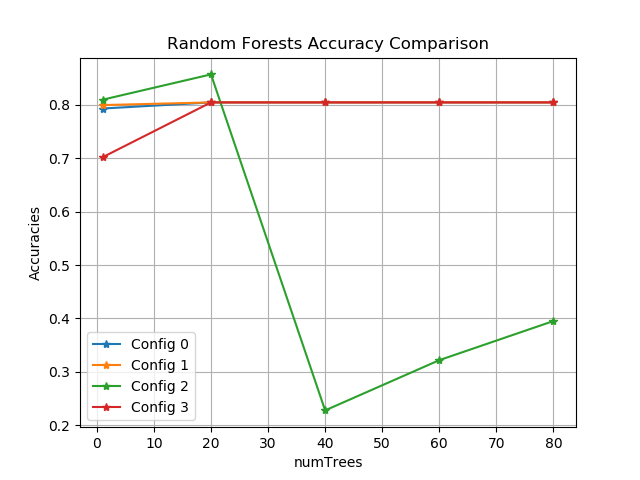
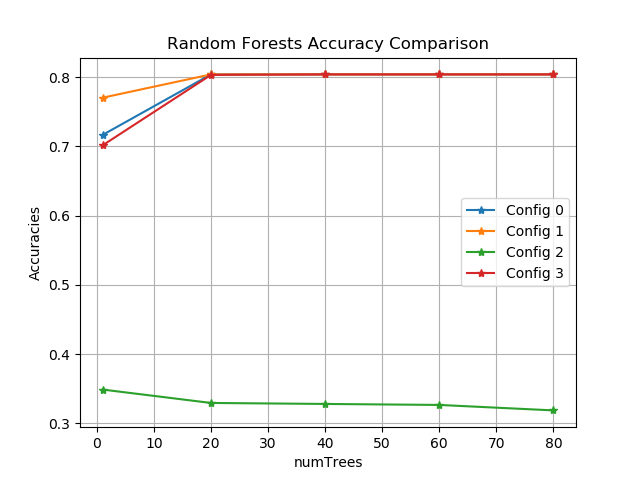
CHANGED: avoid multiple randon.seed() calls.

diff --git a/Assignment4/Code/model/RandomForestsModel.py b/Assignment4/Code/model/RandomForestsModel.py
@@ -28,23 +28,23 @@ class RandomForestModel(object):
         xs = []
         random.seed(self.seed)
         for _ in range(self.numTrees):
-            seed = random.randint(0, self.numTrees)
+            # seed = random.randint(0, self.numTrees)
             # feature restriction: different random set for each tree
             if self.feature_restriction > 0:
                 selected_indices = select_random_indices(len(x[0]),
                                                          self.feature_restriction,
-                                                         seed=seed)
+                                                         seed=None)
 
                 x = restrict_features(x, selected_indices)
 
             if self.use_bagging:
-                x = get_bagged_samples(x, seed=self.seed)
+                x = get_bagged_samples(x, seed=None)
 
             xs.append(x)
 
         # self.trees = [build_tree(x, y, min_to_split) for x in xs]
-        self.trees = Parallel(n_jobs=6)(delayed(build_tree)(x, y, min_to_split)
-                                        for x in xs)
+        self.trees = Parallel(n_jobs=12)(delayed(build_tree)(x, y, min_to_split)
+                                         for x in xs)
 
     def predict(self, xTest, threshold=None):
 

diff --git a/Assignment4/Code/assignments/random_forests_part2.py b/Assignment4/Code/assignments/random_forests_part2.py
@@ -35,7 +35,7 @@ def report(numTrees_options=[1, 20, 40, 60, 80], configs=configs, seed=0):
     xlabel = 'numTrees'
     ylabel = 'Accuracies'
     title = 'Random Forests Accuracy Comparison'
-    fname = 'prob2_part2_accuracy_cmp_{}_randseed_{}.png'\
+    fname = 'prob1_part2_accuracy_cmp_{}_randseed_{}.png'\
         .format('_'.join([str(n) for n in numTrees_options]), seed)
     img_fname = os.path.join(report_path, fname)
     legends = ['Config {}'.format(i) for i in range(len(configs))]

diff --git a/Assignment4/Code/utils/bootstrap_sampling.py b/Assignment4/Code/utils/bootstrap_sampling.py
@@ -9,7 +9,8 @@ def get_bagging_indices(sample_size, seed=0):
     :return: a list of indices randomly generated in range(0, sample_size)
     """
     bagging_indices = []
-    random.seed(seed)
+    if seed is not None:
+        random.seed(seed)
     for _ in range(sample_size):
         bagging_indices.append(random.randint(0, sample_size - 1))
 

diff --git a/Assignment4/Code/utils/feature_restriction.py b/Assignment4/Code/utils/feature_restriction.py
@@ -30,7 +30,8 @@ def restrict_features(data, selected_indices):
 
 
 def select_random_indices(original_features_cnt, num_to_select, seed=0):
-    random.seed(seed)
+    if seed is not None:
+        random.seed(seed)
     try:
         return random.sample(range(0, original_features_cnt), num_to_select)
     except ValueError as ve:
